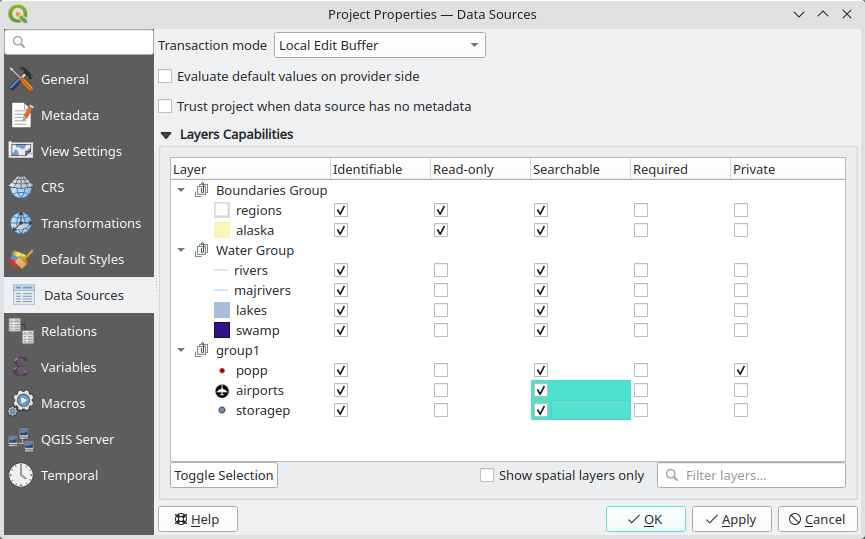
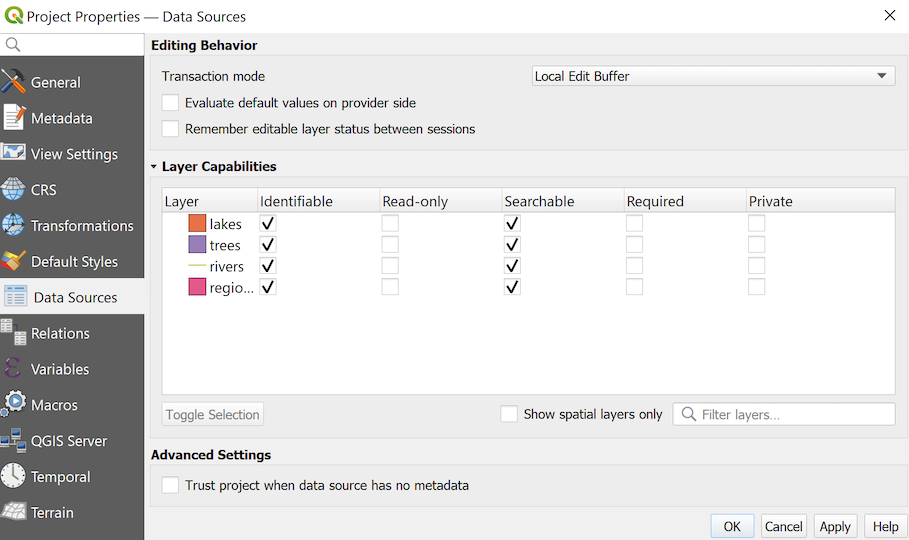
updated project properties documentation as per fix #47856
Documentation for QGIS feature introduced here: qgis/QGIS#47856
Documentation issue fixes #7425

Within user_manual > introduction > img:
Updated the "project_datasources.png" screenshot to show the `Remember editable layer status between sessions` check-box option

Within user_manual > introduction > qgis_configuration.rst:
Added detail under "Data Sources Properties" header, explaining what the `Remember editable layer status between sessions` check-box option does

All changes done under updated-project-properties-documentation-fix-#47856 branch

Let me know if you have any questions!

diff --git a/docs/user_manual/introduction/qgis_configuration.rst b/docs/user_manual/introduction/qgis_configuration.rst
@@ -1506,12 +1506,11 @@ In the |openTable| :guilabel:`Data Sources` tab, you can:
   evaluated and populated at the form opening, and not at the commit moment.
   This means that instead of an expression like ``nextval('serial')``, the field
   in the :guilabel:`Add Feature` form will display expected value (e.g., ``25``).
-* |unchecked| :guilabel:`Trust project when data source has no metadata`:
-  To speed up project loading by skipping data checks. Useful in QGIS Server context
-  or in projects with huge database views/materialized views. The extent of layers
-  will be read from the QGIS project file (instead of data sources) and when
-  using the PostgreSQL provider the primary key unicity will not be
-  checked for views and materialized views.
+* |unchecked| :guilabel:`Remember editable layer status between sessions`:
+  An opt-in, per-project setting that makes sure that all layers that are editable
+  in a project will be remembered as such when saving the project, as well as 
+  making sure that those layers are immediately made editable whenever the project
+  is restored.
 
 .. _project_layer_capabilities:
 
